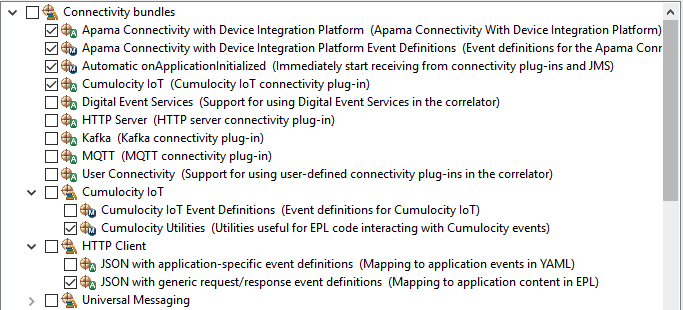
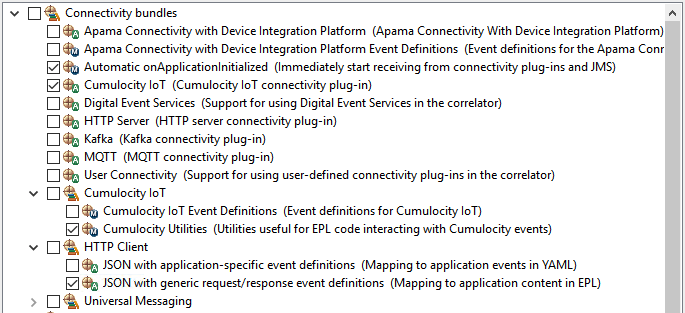
improvement

Changed region(s): [[0.0, 0.0, 1.0, 1.0], [0.9531, 0.6387, 1.0, 1.0]]

diff --git a/src/render/guides/apama/actions/utility-functions.html.md b/src/render/guides/apama/actions/utility-functions.html.md
@@ -29,7 +29,7 @@ You can use a JSON path to navigate in the object structure. Example:
 
 Alternatively, use a cast to convert an `any` to a particular type:
 
-	string s:= &#60;string> measurement.extraParams["strfragment"]);
+	string s:= <string> measurement.extraParams["strfragment"]);
 
 Note that a cast operation will throw if the object is of a different type.
 
@@ -68,12 +68,10 @@ Example:
 	}
 ### replacePlaceholders
 
-To build strings, you can use concatenation:
+To build strings, you can use concatenation as follows:
 
     string s:= "An event with the text " + evt.text + " has been created.";
+    
+If the texts get longer and have more values that are dynamically set from the data, you can use the Util.replacePlaceholders() function. In your text string, you mark the placeholders with the field name from the event and surround it by #{}. The second parameter to replacePlaceholders can be any event type.
 
-If the texts get longer and have more values that are dynamically set from the data, you can use the replacePlaceholders() function. Another advantage of this function is that you can not only use the current object but also access all information of the device that created the alarm, measurement, event.
-
-In your text string, you mark the placeholders with the field name from the event and surround it by #{}. The second parameter to replacePlaceholders can be any event type.
-
-	<span style="color: rgb(133,153,0);">string</span> myMailText := Util.replacePlaceholders(<span class="hljs-string" style="color: rgb(42,161,152);">"The device #{source} with the serial number #{c8y&#95;Hardware.serialNumber} created an event with the text #{text} at #{time}. The device is located at #{c8y&#95;Address.street} in #{c8y_Address.city}.", evt)</span>;
+	myMailText := Util.replacePlaceholders("The device #{source} with the serial number #{c8y_Hardware.serialNumber} created an event with the text #{text} at #{time}. The device is located at #{c8y_Address.street} in #{c8y_Address.city}.", evt);

diff --git a/src/render/guides/apama/introduction/deploying-epl.html.md b/src/render/guides/apama/introduction/deploying-epl.html.md
@@ -7,8 +7,7 @@ layout: redirect
 
 You can use [Software AG Designer](http://www.apamacommunity.com/downloads/) to develop your applications. Create an Apama project in Software AG Designer and add the following connectivity bundles:
 
-*   Apama Connectivity with Device Integration Platform 
-*   Apama Connectivity with Device Integration Platform Event Definitions
+ 
 *   Automatic onApplicationInitialized 
 *   Cumulocity IoT (Cumulocity IoT connectivity plug-in)
 *   Cumulocity Utilities
@@ -25,7 +24,6 @@ The selection of the connectivity bundles in Software AG Designer should look as
 Similarly, check the corresponding item from the standard bundles to add the "Time Format" bundle.
 
 
-
 You will need to provide your Cumulocity credentials in the configuration files, thus in your Apama project go to config > connectivity -> CumulocityIoT and configure the credentials as follows in `CumulocityIoT.properties` file:
 
 ```
@@ -36,17 +34,7 @@ CUMULOCITY_APPKEY=apamaAppKey
 
 ```
 
-
-Analogously provide the credentials in the file `DeviceIntegrationPlatform-credentials.properties` (can be found in the `config/connectivity` folder as well) as follows:
-
-```
-DIP_USERNAME=user@example.com
-DIP_TENANT=exampleTenant
-DIP_PASSWORD= examplePassword
-DIP_APPKEY= apamaAppKey
-
-```
-Info: You need to create an application in Cumulocity to get a value for CUMULOCITY_APPKEY or DIP_APPKEY. Login to Cumulocity and switch to the Administration application. Select "Applications" > "Own Applications". Click Create Application and use APPLICATION KEY value in the corresponding files.
+Info: You need to create an application in Cumulocity to get a value for CUMULOCITY_APPKEY. Login to Cumulocity and switch to the Administration application. Select "Applications" > "Own Applications". Click Create Application and use APPLICATION KEY value in the corresponding files.
 
 Develop and test your EPL in Software AG Designer.
 

diff --git a/src/render/guides/apama/introduction/example.html.md b/src/render/guides/apama/introduction/example.html.md
@@ -4,19 +4,24 @@ title: Example
 layout: redirect
 ---
 
-As an example, we create a statement. It should listen to one event and create a different event type whenever the specified filter applies. As example we want to create an alarm for each temperature measurement that is created.
+As an example, we create a statement. The statement listens to one event and creates a different event type whenever the specified filter applies. For instance‚ we want to create an alarm for each temperature measurement that is created.
 
-1.  Listen to the measurement type - filtering on the measurementType having the value "c8y_TemperatureMeasurement".
-2.  Create the event using the constructor specifying all of the fields.
-3.  Send the event to the correct channel - Event.CHANNEL.
+1. Subscribe to Measurement.CHANNEL 
+2. Listen to the measurement type - filtering on the type having the value "c8y_TemperatureMeasurement".
+3.  Create the event using the constructor specifying all of the fields.
+4.  Send the event to the correct channel - Alarm.CHANNEL.
 
 The resulting monitor can look like this:
 
-	<pre>monitor ForwardMeasurements {
+	using com.apama.cumulocity.Alarm;
+	using com.apama.cumulocity.Measurement;
+	
+	monitor ForwardMeasurements {
 		action onload() {
+	    	monitor.subscribe(Measurement.CHANNEL);
 			on all Measurement(type = "c8y_TemperatureMeasurement") as m {
 				send Alarm("", "c8y_TemperatureAlarm", m.source, m.time,
-					"Temperature measurement was created", "ACTIVE", "CRITICAL", 1, new dictionary&#60;string,any>) to Event.CHANNEL;
+				           "Temperature measurement was created", "ACTIVE", "CRITICAL", 1, new dictionary<string,any>) to Alarm.CHANNEL;
 			}
 		}
 	}

diff --git a/src/render/guides/apama/introduction/events-and-channels.html.md b/src/render/guides/apama/introduction/events-and-channels.html.md
@@ -8,7 +8,7 @@ In the Apama Event Processing Language, interactions with the rest of the Cumulo
 
 ### Predefined event types
 
-There are some predefined event types to interact with several Cumulocity APIs. Events are sent to Apama applications automatically when a new measurement, alarm or event is created. For interacting with the Cumulocity backend, you can create an event and send it to the relevant channel. Cumulocity will automatically execute either the database query or create the API calls necessary for sending mails, SMS, or similar. To create a new alarm in the database, you can create a new "Event" event.
+There are some predefined event types to interact with several Cumulocity APIs. Events are sent to Apama applications automatically when a new measurement, alarm or event is created. For interacting with the Cumulocity backend, you can create an event and send it to the relevant channel. Cumulocity will automatically execute either the database query or create the API calls necessary for sending mails, SMS, or similar.
 
 <table class="wrapped confluenceTable"><colgroup><col><col><col><col></colgroup>
 

diff --git a/src/render/guides/apama/actions/invoking-http.html.md b/src/render/guides/apama/actions/invoking-http.html.md
@@ -10,7 +10,7 @@ To interact with HTTP services using REST and JSON, create an HttpTransport inst
 *   HttpTransport.getOrCreate(string host, integer port) returns HttpTransport
 *   HttpTransport.getOrCreateWithConfiguration(string host, integer port, dictionary&#60;string,string> configurations) returns HttpTransport (the keys in the configurations dictionary are the constants on HttpTransport with CONFIG_ prefix)
 
-On the HttpTransport object, call one of the create*Request methods, passing a path and payload as needed, to produce a Request object.
+On the HttpTransport object, call one of the create methods, passing a path and payload as needed, to produce a Request object.
 
 On the Request object, you may set cookies, headers or query parameters as needed, and can then invoke the request with the execute(action&#60;Response> callback) . Supply the name of an action in your monitor for the callback, and it will be invoked with the Response when the request has completed (or timed out).
 

diff --git a/src/render/guides/apama/data-model/alarm.html.md b/src/render/guides/apama/data-model/alarm.html.md
@@ -4,14 +4,12 @@ title: Event Alarm
 layout: redirect
 ---
 
-Alarm data. 
 
-<span style="color: rgb(0,0,0);">Sent by the transport when a device or other application creates an alarm, or updates an alarm. Requires SubscribeMeasurements or configuration property subscribeToAllMeasurements. Sent to the cumulocity.measurements channel.</span> 
 
+Sent by the transport when a device or other application creates an alarm, or updates an alarm. 
 ### Examples
 
-	Alarm("22","c8y_UnavailabilityAlarm","12669915",1464365565.661,"No communication with device since 2016-05-27T18:11:23.886+02:00","ACKNOWLEDGED","MAJOR",1,{})   
-	 Alarm("11","com_cumulocity_events_BatteryWarning","1122",1464365565.661,"Low battery level","ACTIVE", "MINOR", 1, {"history":{}}) 
+	Alarm("","c8y_UnavailabilityAlarm","10801",1464365565.661,"No communication with device since 2016-05-27T18:11:23.886+02:00","ACTIVE","MAJOR",1,new dictionary<string,any>)  
  
 
 ### Constant Summary

diff --git a/src/render/guides/apama/data-model/event.html.md b/src/render/guides/apama/data-model/event.html.md
@@ -4,14 +4,11 @@ title: Event Event
 layout: redirect
 ---
 
-<span style="color: rgb(0,0,0);">Event data.</span>  
-
-<span style="color: rgb(0,0,0);">Sent by the transport when a device or other application creates an Event, or updates an Event. Requires SubscribeMeasurements or configuration property subscribeToAllMeasurements. Sent to the cumulocity.measurements channel.</span>  
+Sent by the transport when a device or other application creates an Event, or updates an Event. 
 
 ### Examples
 
-	Event("21","c8y_EntranceEvent","12346082",1464364483.396,"Entrance event triggered.",{"distance":any(float,317)})   
-	 Alarm("22","com_cumulocity_events_TamperEvent","12345",1464364483.396,"Tamper sensor triggered",{"history":{}})
+	Event("21","c8y_EntranceEvent","10801",1464364483.396,"Entrance event triggered.",{"distance":any(float,317.0)})
 
 
 ### Constant Summary

diff --git a/src/render/guides/apama/best-practices/epl-monitors.html.md b/src/render/guides/apama/best-practices/epl-monitors.html.md
@@ -10,6 +10,6 @@ If a monitor throws an exception from `onload` or a listener and the exception i
 
 Similarly, if a monitor completes processing an event and has no listeners left active, then it cannot be triggered again, and will automatically remove itself.
 
-**Avoid excessive memory usage per monitor:**
+**Avoid excessive memory usage per monitor**
 
 Make sure that your event processing rules do not leak listeners. For example, when doing request-response operations, ensure that no listeners are left active after the response is processed, or if a timeout occurs and there is no response.
